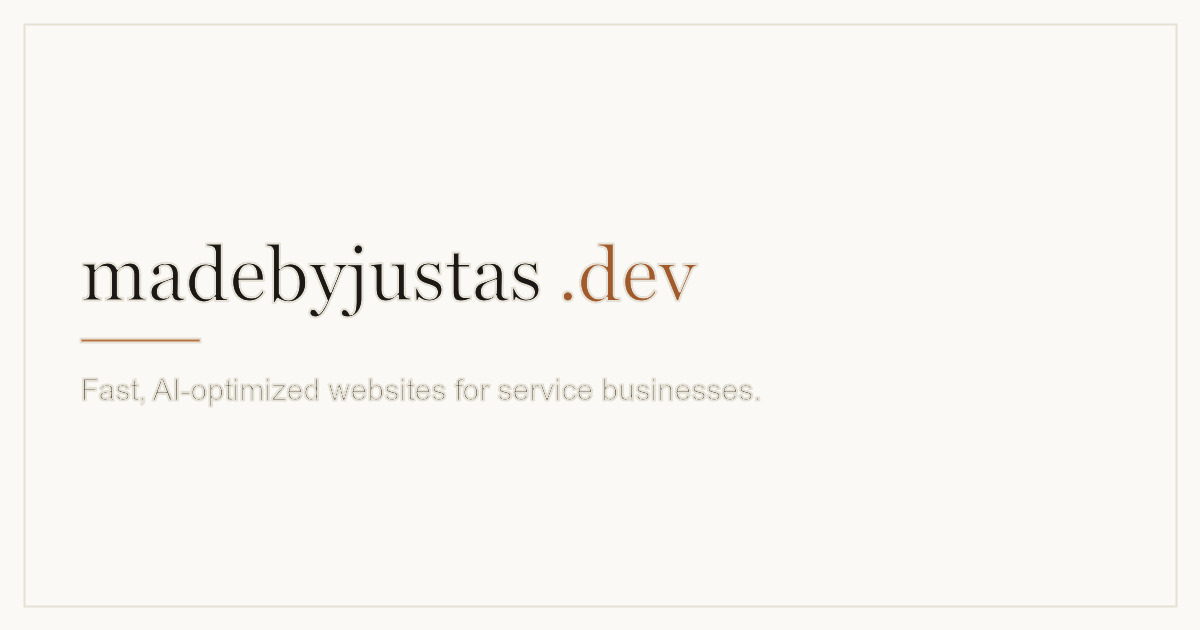
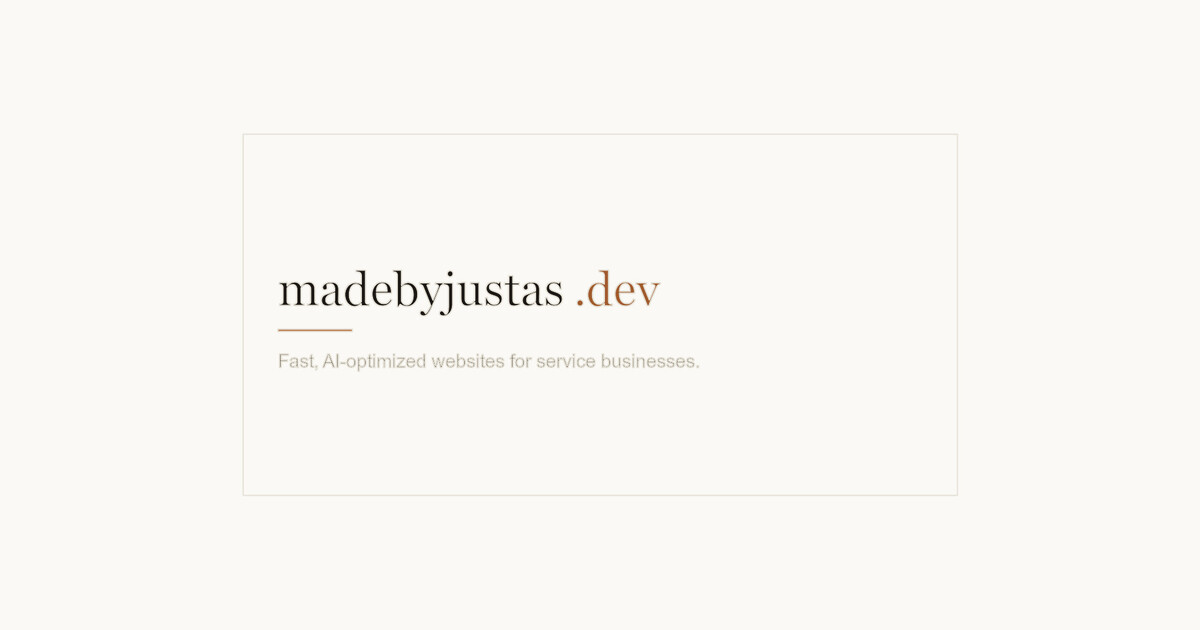
Add Blumu App case study and improve social preview assets.
Separate mobile app portfolio entry with dedicated screenshot, OG image safe-zone padding for LinkedIn cropping, and stronger favicon/OG meta tags.

Changed region(s): [[0.0617, 0.3921, 0.6475, 0.6333], [0.0617, 0.5127, 0.1542, 0.5429]]

diff --git a/src/lib/content.ts b/src/lib/content.ts
@@ -153,6 +153,7 @@ import type { ImageMetadata } from 'astro';
 import decksImage from '../assets/work/decks-and-stories.png';
 import tvortekaImage from '../assets/work/tvorteka.png';
 import blumuImage from '../assets/work/blumu.png';
+import blumuAppImage from '../assets/work/blumu-app.png';
 import eventsAgencyImage from '../assets/work/events-agency.png';
 import renginiuLabImage from '../assets/work/renginiu-lab.png';
 
@@ -175,12 +176,14 @@ export interface WorkProject {
 	image: ImageMetadata;
 	/** Alt text for the project image. */
 	imageAlt: string;
+	/** Portrait screenshots (e.g. mobile apps) use contain instead of cover. */
+	imageFit?: 'cover' | 'contain';
 }
 
 export const WORK_PROJECTS: WorkProject[] = [
 	{
 		slug: 'blumu',
-		name: 'Blumu',
+		name: 'Blumu Web',
 		category: 'Product',
 		role: 'Web Developer & Designer',
 		year: '2026',
@@ -307,5 +310,38 @@ export const WORK_PROJECTS: WorkProject[] = [
 		stack: ['Hand-coded static HTML/CSS/JS', 'WebP/AVIF assets', 'Custom JS audio player'],
 		image: decksImage,
 		imageAlt: 'Decks&Stories website homepage with the platform logo',
+	},
+	{
+		slug: 'blumu-app',
+		name: 'Blumu App',
+		category: 'Mobile app',
+		role: 'Full-Stack Developer',
+		year: '2026',
+		url: 'https://blumu.eu',
+		summary:
+			'A React Native (Expo) marketplace app connecting clients with local service providers on iOS and Android from a single codebase — with a NestJS backend, real-time messaging, Stripe subscriptions, and production security hardening ahead of App Store launch.',
+		context:
+			'Blumu is a geolocation-based marketplace where clients post tasks and verified local pros respond in real time — 0% commission, direct in-app chat, ratings. The mobile app is the core product; blumu-web is the public-facing launch presence.',
+		whatIDid:
+			'Built the cross-platform app in React Native (Expo) and the API in NestJS with PostgreSQL (Prisma ORM) on Railway. Shipped JWT auth with email verification, a multi-step tasker onboarding wizard, admin moderation with email notifications, and real-time messaging with proposal accept/reject. Integrated Stripe for subscription billing — setup intents, webhook processing with idempotency and retry safety, and a trial → active → expired lifecycle with automated cron reminders. Hardened production security before App Store submission: rate limiting (NestJS Throttler), HTTP security headers (Helmet), strict CORS, and trust proxy config for Railway. Also built blumu-web, the public marketing site for the platform.',
+		highlights: [
+			'Single Expo codebase shipping to both iOS and Android',
+			'JWT auth with email verification and multi-step tasker onboarding',
+			'Admin moderation flow with email notifications',
+			'Real-time messaging with proposal accept/reject',
+			'Stripe subscriptions: setup intents, idempotent webhooks, trial lifecycle + cron reminders',
+			'Production hardening: Throttler rate limiting, Helmet, strict CORS, Railway trust proxy',
+		],
+		stack: [
+			'React Native (Expo)',
+			'NestJS',
+			'PostgreSQL + Prisma',
+			'Railway',
+			'Stripe',
+			'JWT + email verification',
+		],
+		image: blumuAppImage,
+		imageAlt: 'Blumu mobile app welcome screen on iOS',
+		imageFit: 'contain',
 	},
 ];